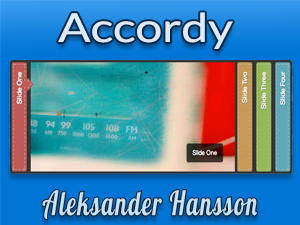
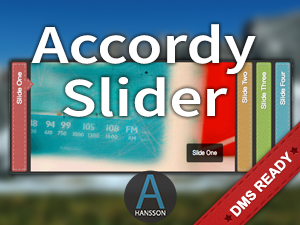
new graphics and DMS ready

diff --git a/section.php b/section.php
@@ -9,6 +9,7 @@
 	Class Name: AccordySlider
 	Workswith: main, templates, header
 	Cloning: true
+	V3: true
 */
 
 class AccordySlider extends PageLinesSection {
@@ -27,7 +28,7 @@ class AccordySlider extends PageLinesSection {
 
 	function section_head() {
 
-		$clone_id = $this->oset['clone_id'];
+		$clone_id = $this->get_the_id();
 
 		$prefix = ( $clone_id != '' ) ? 'Clone_'.$clone_id : '';
 
@@ -75,7 +76,7 @@ class AccordySlider extends PageLinesSection {
 
 	function section_template() {
 
-		$clone_id = $this->oset['clone_id'];
+		$clone_id = $this->get_the_id();
 
 		$prefix = ( $clone_id != '' ) ? 'Clone_'.$clone_id : '';
 
@@ -176,39 +177,46 @@ class AccordySlider extends PageLinesSection {
 
 		$array = array();
 
-		$array['accordion_slider_slides'] = array(
-			'type'    => 'count_select',
-			'count_start' => 2,
-			'count_num'  => 30,
-			'default'  => '2',
-			'inputlabel'  => __( 'Number of Images to Configure', 'AccordySlider' ),
-			'title'   => __( 'Number of images', 'AccordySlider' ),
-			'shortexp'   => __( 'Enter the number of Accordion slides. <strong>Minimum is 2</strong>', 'AccordySlider' ),
-			'exp'    => __( "This number will be used to generate slides and option setup. For responsive layouts, please select a low number and work your way up while testing. 10 is too many for most responsive sites.", 'AccordySlider' ),
-
-		);
-
-		$array['accordion_slider_theme'] = array(
-			'inputlabel' => __( 'Slide Theme', 'AccordySlider' ),
-			'type'   => 'select',
-			'default'  => 'stitch',
+		$array['accordion_slider_slide_'] = array(
+			'type'    => 'multi_option',
+			'title' => __( 'Settings', 'AccordySlider' ),
 			'selectvalues' => array(
-				'stitch' => array( 'name'=> 'Stiches' ),
-				'light' => array( 'name'=> 'Light' ),
-				'dark' => array( 'name'=> 'Dark' ),
-				'basic'  => array( 'name'=> 'Basic' )
+
+				'accordion_slider_slides' => array(
+					'type'    => 'count_select',
+					'count_start' => 2,
+					'count_num'  => 30,
+					'default'  => '2',
+					'inputlabel'  => __( 'Number of Images to Configure', 'AccordySlider' ),
+					'title'   => __( 'Number of images', 'AccordySlider' ),
+					'shortexp'   => __( 'Enter the number of Accordion slides. <strong>Minimum is 2</strong>', 'AccordySlider' ),
+					'exp'    => __( "This number will be used to generate slides and option setup. For responsive layouts, please select a low number and work your way up while testing. 10 is too many for most responsive sites.", 'AccordySlider' ),
+
+				),
+
+				'accordion_slider_theme' => array(
+					'inputlabel' => __( 'Slide Theme', 'AccordySlider' ),
+					'type'   => 'select',
+					'default'  => 'stitch',
+					'selectvalues' => array(
+						'stitch' => array( 'name'=> 'Stiches' ),
+						'light' => array( 'name'=> 'Light' ),
+						'dark' => array( 'name'=> 'Dark' ),
+						'basic'  => array( 'name'=> 'Basic' )
+					),
+					'title'   => __( 'Choose theme for this slide', 'AccordySlider' ),
+					'shortexp'   => __( 'You can choose from 4 different themes.', 'AccordySlider' ),
+					'exp'    => __( "Select one of the themes from the list. If you want your own styling, please choose Basic and customize your the slider with custom CSS.", 'AccordySlider' ),
+
+				),
+
+				'accordion_slider_speed' => array(
+					'inputlabel'  => __( 'Slide speed in ms', 'AccordySlider' ),
+					'type'   => 'text',
+					'title'   => __( 'Slide speed', 'AccordySlider' ),
+					'shortexp'   => __( 'Enter slide speed in ms (default is 800)', 'AccordySlider' )
+				),
 			),
-			'title'   => __( 'Choose theme for this slide', 'AccordySlider' ),
-			'shortexp'   => __( 'You can choose from 4 different themes.', 'AccordySlider' ),
-			'exp'    => __( "Select one of the themes from the list. If you want your own styling, please choose Basic and customize your the slider with custom CSS.", 'AccordySlider' ),
-
-		);
-
-		$array['accordion_slider_speed']  = array(
-			'inputlabel'  => __( 'Slide speed in ms', 'AccordySlider' ),
-			'type'   => 'text',
-			'title'   => __( 'Slide speed', 'AccordySlider' ),
-			'shortexp'   => __( 'Enter slide speed in ms (default is 800)', 'AccordySlider' )
 		);
 
 		global $post_ID;
